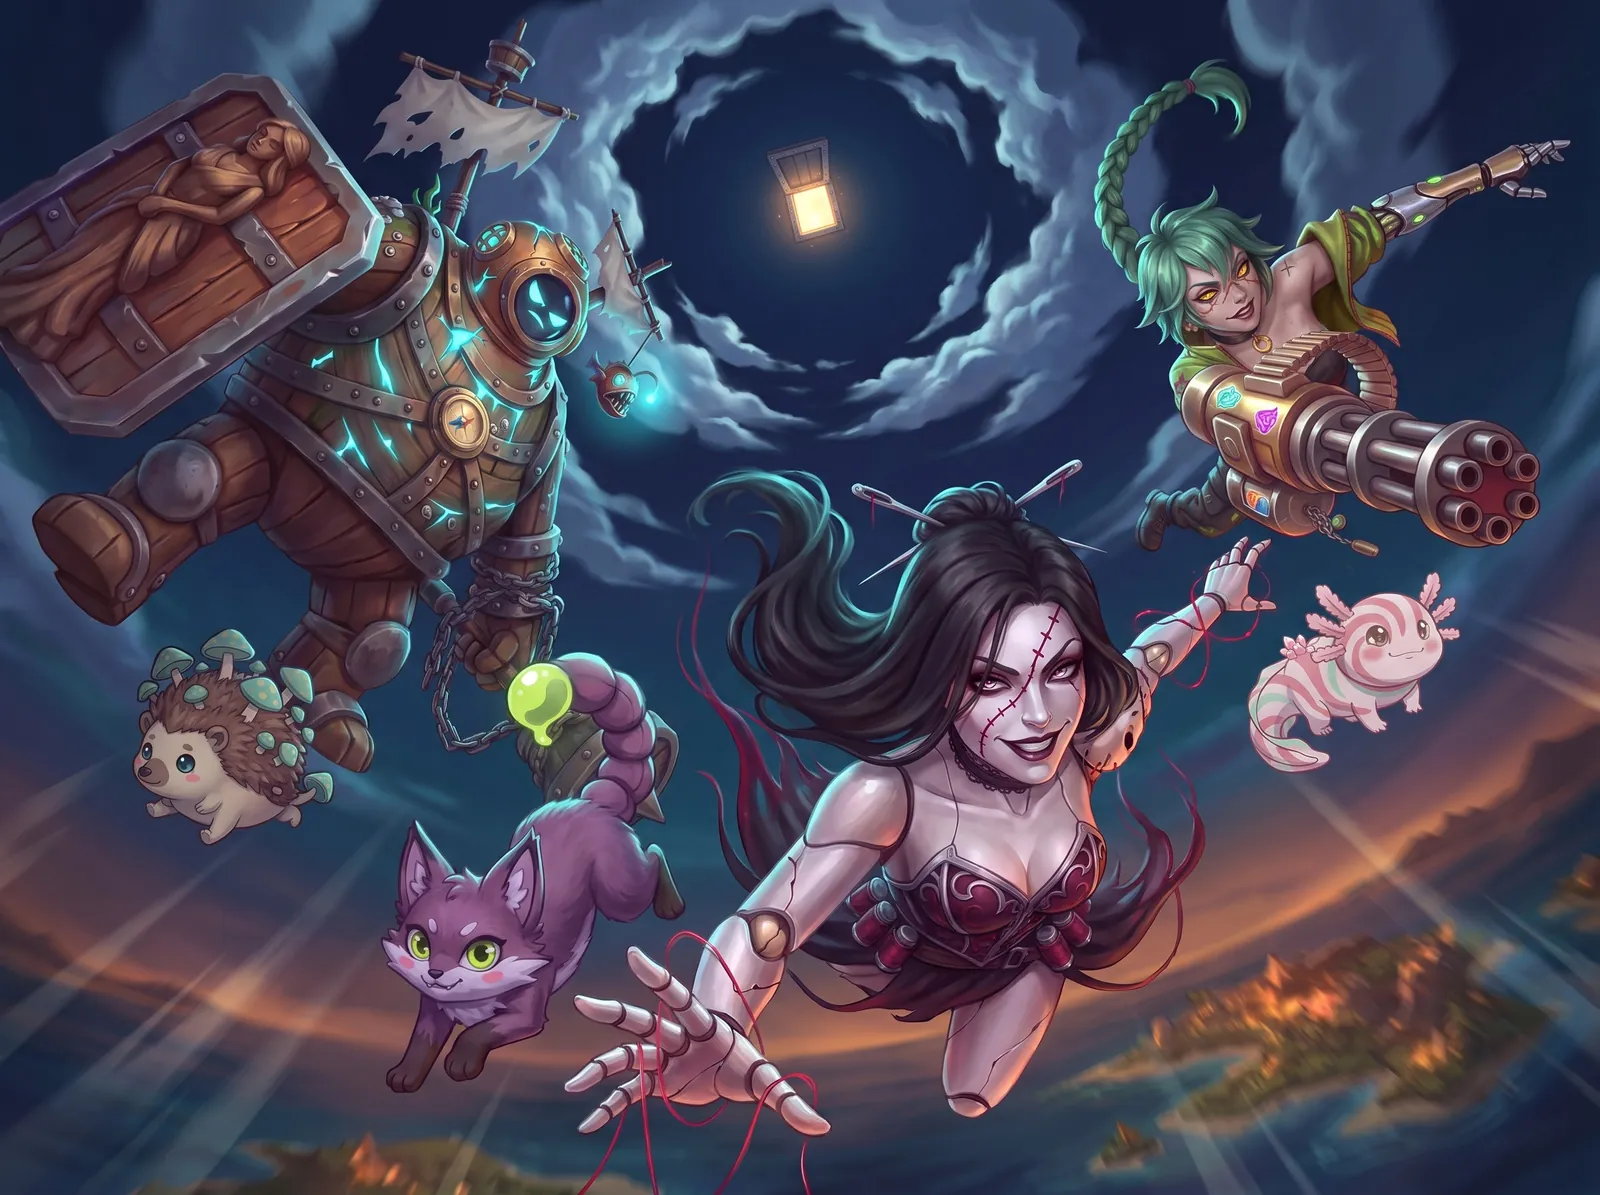
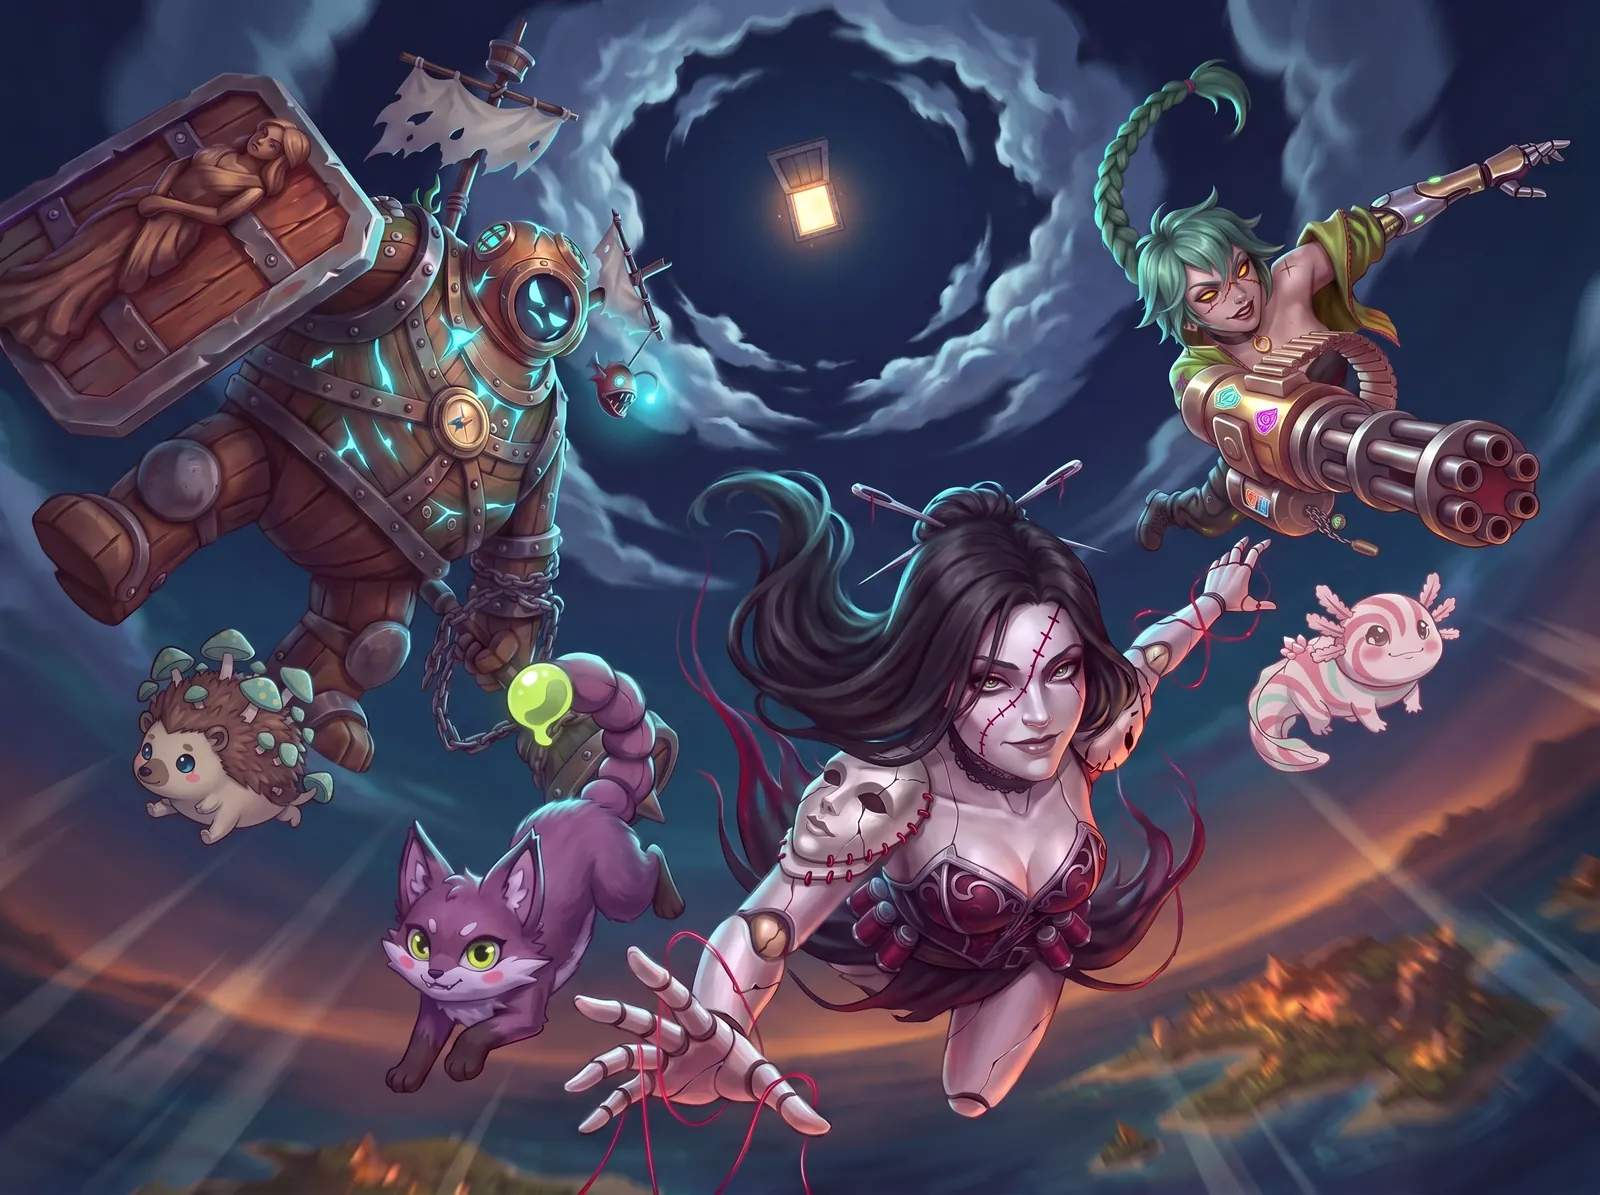
Drop in card: updated drop picture (Lace reworked)
Claude-Session: https://claude.ai/code/session_015vSSPmpJoF22Rm1LS1od6V

diff --git a/index.html b/index.html
@@ -197,7 +197,7 @@
     <article class="step" style="--i:0">
       <div class="step-card">
         <!-- Media slot: swap this image for a gameplay clip, e.g. <video src="assets/video/drop-in.mp4" autoplay muted loop playsinline></video> -->
-        <div class="step-media" data-clip="drop-in"><img data-full="assets/img/lore/drop-2400.webp" src="assets/img/lore/drop-1600.webp" srcset="assets/img/lore/drop-960.webp 960w, assets/img/lore/drop-1600.webp 1600w, assets/img/lore/drop-2400.webp 2400w" sizes="(max-width: 860px) 100vw, 440px" width="2400" height="1792" style="object-position: 50% 50%; --mp: 50% 50%" alt="Albert, Lace and Vex dive from the airship with their Boki" loading="lazy" decoding="async"></div>
+        <div class="step-media" data-clip="drop-in"><img data-full="assets/img/lore/drop-2400.webp?v=2" src="assets/img/lore/drop-1600.webp?v=2" srcset="assets/img/lore/drop-960.webp?v=2 960w, assets/img/lore/drop-1600.webp?v=2 1600w, assets/img/lore/drop-2400.webp?v=2 2400w" sizes="(max-width: 860px) 100vw, 440px" width="2400" height="1792" style="object-position: 50% 50%; --mp: 50% 50%" alt="Albert, Lace and Vex dive from the airship with their Boki" loading="lazy" decoding="async"></div>
         <div class="step-text">
           <p class="step-n">01</p>
           <h3>Drop in.</h3>
